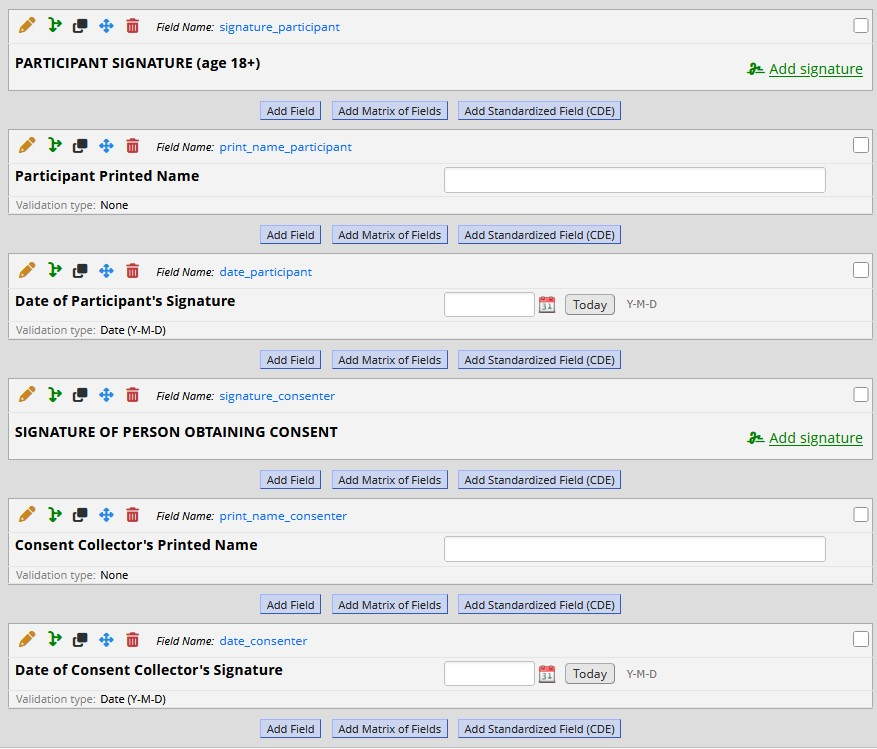
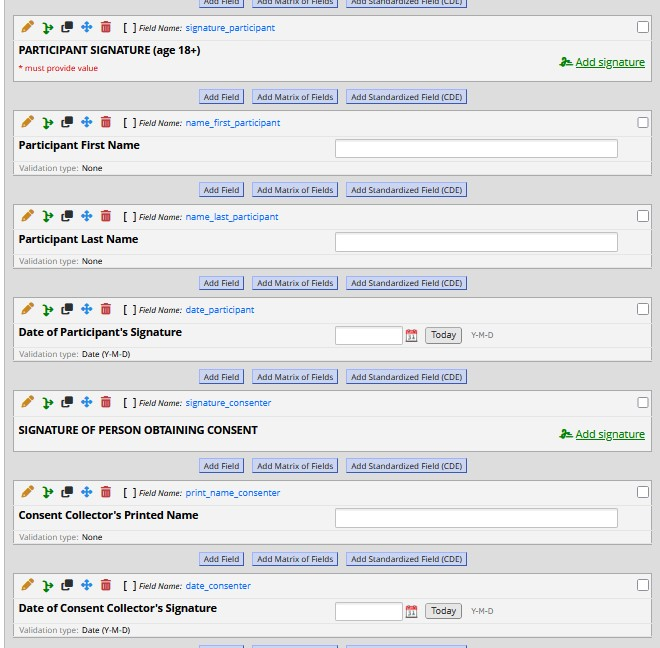
Built site for gh-pages

diff --git a/designadv/econsent.html b/designadv/econsent.html
@@ -637,12 +637,17 @@ gtag('config', 'G-H3G33LRV8Y', { 'anonymize_ip': true});
   <li><a href="#consent-form" id="toc-consent-form" class="nav-link" data-scroll-target="#consent-form"><span class="header-section-number">10.5.1</span> Consent Form</a></li>
   <li><a href="#hipaa-form" id="toc-hipaa-form" class="nav-link" data-scroll-target="#hipaa-form"><span class="header-section-number">10.5.2</span> HIPAA Form</a></li>
   </ul></li>
-  <li><a href="#configuring-settings" id="toc-configuring-settings" class="nav-link" data-scroll-target="#configuring-settings"><span class="header-section-number">10.6</span> Configuring Settings</a>
+  <li><a href="#enabling-surveys" id="toc-enabling-surveys" class="nav-link" data-scroll-target="#enabling-surveys"><span class="header-section-number">10.6</span> Enabling Surveys</a>
   <ul class="collapse">
-  <li><a href="#primary-settings" id="toc-primary-settings" class="nav-link" data-scroll-target="#primary-settings"><span class="header-section-number">10.6.1</span> Primary Settings</a></li>
-  <li><a href="#additional-settings" id="toc-additional-settings" class="nav-link" data-scroll-target="#additional-settings"><span class="header-section-number">10.6.2</span> Additional Settings</a></li>
+  <li><a href="#tell-redcap-to-allow-surveys" id="toc-tell-redcap-to-allow-surveys" class="nav-link" data-scroll-target="#tell-redcap-to-allow-surveys"><span class="header-section-number">10.6.1</span> Tell REDCap to Allow Surveys</a></li>
   </ul></li>
-  <li><a href="#updating-consent-forms" id="toc-updating-consent-forms" class="nav-link" data-scroll-target="#updating-consent-forms"><span class="header-section-number">10.7</span> Updating Consent Forms</a></li>
+  <li><a href="#enable-e-consent-framework" id="toc-enable-e-consent-framework" class="nav-link" data-scroll-target="#enable-e-consent-framework"><span class="header-section-number">10.7</span> Enable e-Consent Framework</a></li>
+  <li><a href="#configuring-settings" id="toc-configuring-settings" class="nav-link" data-scroll-target="#configuring-settings"><span class="header-section-number">10.8</span> Configuring Settings</a>
+  <ul class="collapse">
+  <li><a href="#primary-settings" id="toc-primary-settings" class="nav-link" data-scroll-target="#primary-settings"><span class="header-section-number">10.8.1</span> Primary Settings</a></li>
+  <li><a href="#additional-settings" id="toc-additional-settings" class="nav-link" data-scroll-target="#additional-settings"><span class="header-section-number">10.8.2</span> Additional Settings</a></li>
+  </ul></li>
+  <li><a href="#updating-consent-forms" id="toc-updating-consent-forms" class="nav-link" data-scroll-target="#updating-consent-forms"><span class="header-section-number">10.9</span> Updating Consent Forms</a></li>
   </ul>
 <div class="toc-actions"><ul><li><a href="https://github.com/OuhscBbmc/redcap-manual-v1/edit/main/designadv/econsent.md" class="toc-action"><i class="bi bi-github"></i>Edit this page</a></li><li><a href="https://github.com/OuhscBbmc/redcap-manual-v1/issues/new" class="toc-action"><i class="bi empty"></i>Report an issue</a></li><li><a href="https://github.com/OuhscBbmc/redcap-manual-v1/blob/main/designadv/econsent.md" class="toc-action"><i class="bi empty"></i>View source</a></li></ul></div></nav>
     </div>
@@ -776,31 +781,38 @@ gtag('config', 'G-H3G33LRV8Y', { 'anonymize_ip': true});
 </ol>
 <ul>
 <li>A signature field for the participant’s signature</li>
-<li>A text variable for participant’s printed name</li>
+<li>A text variable for the participant’s first name</li>
+<li>A text variable for the participant’s last name – separate name fields are required, even if they do not appear that way on the pdf form</li>
 <li>A date variable for the date of signature</li>
 <li>A signature field for the person obtaining consent</li>
 <li>A text variable for the printed name of the person obtaining consent</li>
 <li>A date variable for the consent obtainer’s date of signature. Other consent forms also may have fields for a witness to sign and for a child to sign indicating his or her assent. (Children cannot sign a legal form granting consent; the parent or guardian must grant consent. But obtaining assent from a child old enough to understand that s/he will be participating in a study is the ethical choice.)</li>
 </ul>
 <ol type="1">
-<li><p>Create the needed consent fields listed above.</p>
+<li><p>Create the needed consent fields listed above. Make sure the participant’s signature is <strong>required</strong> by clicking that button when creating the field.</p>
 <div class="quarto-figure quarto-figure-center">
 <figure class="figure">
-<p><a href="images/econsent/consent-fields.jpg" class="lightbox" data-gallery="quarto-lightbox-gallery-6" title="Consent Fields in REDCap"><img src="images/econsent/consent-fields.jpg" class="img-fluid figure-img" style="width:80.0%" alt="Consent Fields in REDCap"></a></p>
+<p><a href="images/econsent/signature-required.jpg" class="lightbox" data-gallery="quarto-lightbox-gallery-6" title="Signature is required"><img src="images/econsent/signature-required.jpg" class="img-fluid figure-img" style="width:80.0%" alt="Signature is required"></a></p>
+<figcaption>Signature is required</figcaption>
+</figure>
+</div>
+<div class="quarto-figure quarto-figure-center">
+<figure class="figure">
+<p><a href="images/econsent/consent-fields.jpg" class="lightbox" data-gallery="quarto-lightbox-gallery-7" title="Consent Fields in REDCap"><img src="images/econsent/consent-fields.jpg" class="img-fluid figure-img" style="width:80.0%" alt="Consent Fields in REDCap"></a></p>
 <figcaption>Consent Fields in REDCap</figcaption>
 </figure>
 </div></li>
 <li><p>The project now has the parts of the consent form that need to be filled out. But our REDCap project needs to provide the potential participant with the pdf of the consent form. Create a new <em>Descriptive Text</em> variable at the top of the Consent instrument (after Record ID) by clicking the <em>Add Field</em> button, shown below.</p>
 <div class="quarto-figure quarto-figure-center">
 <figure class="figure">
-<p><a href="images/econsent/add-field.jpg" class="lightbox" data-gallery="quarto-lightbox-gallery-7" title="Add a Descriptive Text field"><img src="images/econsent/add-field.jpg" class="img-fluid figure-img" style="width:80.0%" alt="Add a Descriptive Text field"></a></p>
+<p><a href="images/econsent/add-field.jpg" class="lightbox" data-gallery="quarto-lightbox-gallery-8" title="Add a Descriptive Text field"><img src="images/econsent/add-field.jpg" class="img-fluid figure-img" style="width:80.0%" alt="Add a Descriptive Text field"></a></p>
 <figcaption>Add a Descriptive Text field</figcaption>
 </figure>
 </div></li>
 <li><p>You won’t put anything in the box called <em>Field Label.</em> Name this variable <em>consent</em>, then click the link <em>Upload file</em> just below the sentence <em>Attach an image, file, or embedded audio</em></p>
 <div class="quarto-figure quarto-figure-center">
 <figure class="figure">
-<p><a href="images/econsent/attach-file.jpg" class="lightbox" data-gallery="quarto-lightbox-gallery-8" title="Attach a file"><img src="images/econsent/attach-file.jpg" class="img-fluid figure-img" style="width:80.0%" alt="Attach a file"></a></p>
+<p><a href="images/econsent/attach-file.jpg" class="lightbox" data-gallery="quarto-lightbox-gallery-9" title="Attach a file"><img src="images/econsent/attach-file.jpg" class="img-fluid figure-img" style="width:80.0%" alt="Attach a file"></a></p>
 <figcaption>Attach a file</figcaption>
 </figure>
 </div></li>
@@ -808,73 +820,145 @@ gtag('config', 'G-H3G33LRV8Y', { 'anonymize_ip': true});
 <p>After you upload the pdf of the consent form, you will need to select <em>Inline image/PDF,</em> as shown below.</p>
 <div class="quarto-figure quarto-figure-center">
 <figure class="figure">
-<p><a href="images/econsent/inline-image-pdf.jpg" class="lightbox" data-gallery="quarto-lightbox-gallery-9" title="Select Inline Image/PDF"><img src="images/econsent/inline-image-pdf.jpg" class="img-fluid figure-img" style="width:80.0%" alt="Select Inline Image/PDF"></a></p>
+<p><a href="images/econsent/inline-image-pdf.jpg" class="lightbox" data-gallery="quarto-lightbox-gallery-10" title="Select Inline Image/PDF"><img src="images/econsent/inline-image-pdf.jpg" class="img-fluid figure-img" style="width:80.0%" alt="Select Inline Image/PDF"></a></p>
 <figcaption>Select Inline Image/PDF</figcaption>
 </figure>
 </div>
 </section>
 <section id="hipaa-form" class="level3" data-number="10.5.2">
 <h3 data-number="10.5.2" class="anchored" data-anchor-id="hipaa-form"><span class="header-section-number">10.5.2</span> HIPAA Form</h3>
-<p>Now do the same thing for the HIPAA form: - Identify all elements that would be filled in with a pen on a printed HIPAA form - Go into the HIPAA instrument and create those fields - Be sure to include the Descriptive Field called hipaa for uploading the pdf of the HIPAA form</p>
-<ol type="1">
-<li><p>Enable the e-Consent Framework for a Survey</p>
+<p>Now do the same thing for the HIPAA form:</p>
+<ul>
+<li>Identify all elements that would be filled out on a printed HIPAA form</li>
+<li>Go into the HIPAA instrument on REDCap and create those fields</li>
+<li>Be sure to include the Descriptive Field called hipaa and upload the HIPAA pdf, setting it to appear inline</li>
+</ul>
+</section>
+</section>
+<section id="enabling-surveys" class="level2" data-number="10.6">
+<h2 data-number="10.6" class="anchored" data-anchor-id="enabling-surveys"><span class="header-section-number">10.6</span> Enabling Surveys</h2>
+<p>Before the consent form can be designated as such in the e-consent framework (that is, the REDCap module for electronic consent), we must specify that the forms are on a survey.</p>
+<section id="tell-redcap-to-allow-surveys" class="level3" data-number="10.6.1">
+<h3 data-number="10.6.1" class="anchored" data-anchor-id="tell-redcap-to-allow-surveys"><span class="header-section-number">10.6.1</span> Tell REDCap to Allow Surveys</h3>
+<p>On the Project Setup tab, click the <em>Enable</em> button next to the words “Use surveys in this project.”</p>
 <div class="quarto-figure quarto-figure-center">
 <figure class="figure">
-<p><a href="images/econsent/enable-1.jpg" class="lightbox" data-gallery="quarto-lightbox-gallery-10" title="Enable e-Consent"><img src="images/econsent/enable-1.jpg" class="img-fluid figure-img" style="width:80.0%" alt="Enable e-Consent"></a></p>
-<figcaption>Enable e-Consent</figcaption>
+<p><a href="images/econsent/enable-1.jpg" class="lightbox" data-gallery="quarto-lightbox-gallery-11" title="Enable surveys on the project"><img src="images/econsent/enable-1.jpg" class="img-fluid figure-img" style="width:80.0%" alt="Enable surveys on the project"></a></p>
+<figcaption>Enable surveys on the project</figcaption>
 </figure>
-</div></li>
+</div>
+<p>Return to Online Designer and click on the Enable button on the same line with the Consent form.</p>
+<div class="quarto-figure quarto-figure-center">
+<figure class="figure">
+<p><a href="images/econsent/enable-1.jpg" class="lightbox" data-gallery="quarto-lightbox-gallery-12" title="Enable Consent as a survey"><img src="images/econsent/enable-1.jpg" class="img-fluid figure-img" style="width:80.0%" alt="Enable Consent as a survey"></a></p>
+<figcaption>Enable Consent as a survey</figcaption>
+</figure>
+</div>
+<p>You will be taken to a new screen where you will specify how the survey will look and perform. We will illustrate only the most important details.</p>
+<div class="quarto-figure quarto-figure-center">
+<figure class="figure">
+<p><a href="images/econsent/enable-3.jpg" class="lightbox" data-gallery="quarto-lightbox-gallery-13" title="Editing survey details"><img src="images/econsent/enable-3.jpg" class="img-fluid figure-img" style="width:80.0%" alt="Editing survey details"></a></p>
+<figcaption>Editing survey details</figcaption>
+</figure>
+</div>
+<p>Scroll down to Survey Theme. The default theme is black, white, and light blue. A common choice for a theme at OU is Red Brick because the colors are similar to those of the university. The investigators running your study may have a preference.</p>
+<div class="quarto-figure quarto-figure-center">
+<figure class="figure">
+<p><a href="images/econsent/survey-theme.jpg" class="lightbox" data-gallery="quarto-lightbox-gallery-14" title="Setting survey theme"><img src="images/econsent/survey-theme.jpg" class="img-fluid figure-img" style="width:80.0%" alt="Setting survey theme"></a></p>
+<figcaption>Setting survey theme</figcaption>
+</figure>
+</div>
+<p>Scroll down to <em>Survey Termination Options.</em> Place a checkmark in the box <em>Auto-continue to the next survey.</em></p>
+<div class="quarto-figure quarto-figure-center">
+<figure class="figure">
+<p><a href="images/econsent/auto-continue.jpg" class="lightbox" data-gallery="quarto-lightbox-gallery-15" title="Choose auto-continue"><img src="images/econsent/auto-continue.jpg" class="img-fluid figure-img" style="width:80.0%" alt="Choose auto-continue"></a></p>
+<figcaption>Choose auto-continue</figcaption>
+</figure>
+</div>
+<p>Click the <em>Save Changes</em> button at the bottom of the page. You will be taken back to Online Designer. Now click the <em>Enable</em> button on the HIPAA line. Select the Survey Theme to match the one you used on the conent form, then click Save Changes.</p>
+</section>
+</section>
+<section id="enable-e-consent-framework" class="level2" data-number="10.7">
+<h2 data-number="10.7" class="anchored" data-anchor-id="enable-e-consent-framework"><span class="header-section-number">10.7</span> Enable e-Consent Framework</h2>
+<p>Finally we can enable the e-Consent Framework, the module that was designed to handle electronic consenting processes. In Online Designer we do that by clicking the <em>Enable</em> button under Survey Options, shown above the list of instruments.</p>
+<div class="quarto-figure quarto-figure-center">
+<figure class="figure">
+<p><a href="images/econsent/enable-4.jpg" class="lightbox" data-gallery="quarto-lightbox-gallery-16" title="Enable e-consent"><img src="images/econsent/enable-4.jpg" class="img-fluid figure-img" style="width:80.0%" alt="Enable e-consent"></a></p>
+<figcaption>Enable e-consent</figcaption>
+</figure>
+</div>
+<p>You will be taken to a page called <em>Settings for e-Consent &amp; PDF Snapshots.</em></p>
+<div class="quarto-figure quarto-figure-center">
+<figure class="figure">
+<p><a href="images/econsent/enable-5.jpg" class="lightbox" data-gallery="quarto-lightbox-gallery-17" title="E-consent settings"><img src="images/econsent/enable-5.jpg" class="img-fluid figure-img" style="width:80.0%" alt="E-consent settings"></a></p>
+<figcaption>E-consent settings</figcaption>
+</figure>
+</div>
+<p>Click the big green button that says <em>Enable the e-Consent Framework for a survey.</em> You will get a window that says <em>Enable e-Consent for a Survey.</em> You will select Consent from the drop-down menu.</p>
+<div class="quarto-figure quarto-figure-center">
+<figure class="figure">
+<p><a href="images/econsent/choose-consent.jpg" class="lightbox" data-gallery="quarto-lightbox-gallery-18" title="Select the consent form"><img src="images/econsent/choose-consent.jpg" class="img-fluid figure-img" style="width:80.0%" alt="Select the consent form"></a></p>
+<figcaption>Select the consent form</figcaption>
+</figure>
+</div>
+<p>Another window will open, called <em>Enable e-Consent.</em> The first two</p>
+<ol start="2" type="1">
 <li><p>Click on <strong>e-Consent and PDF Snapshots</strong> in the <em>Data Collection Instruments</em> header box</p>
 <div class="quarto-figure quarto-figure-center">
 <figure class="figure">
-<p><a href="images/econsent/enable-2.jpg" class="lightbox" data-gallery="quarto-lightbox-gallery-11" title="e-Consent and PDF Snapshots"><img src="images/econsent/enable-2.jpg" class="img-fluid figure-img" style="width:80.0%" alt="e-Consent and PDF Snapshots"></a></p>
+<p><a href="images/econsent/enable-2.jpg" class="lightbox" data-gallery="quarto-lightbox-gallery-19" title="e-Consent and PDF Snapshots"><img src="images/econsent/enable-2.jpg" class="img-fluid figure-img" style="width:80.0%" alt="e-Consent and PDF Snapshots"></a></p>
 <figcaption>e-Consent and PDF Snapshots</figcaption>
 </figure>
 </div>
 <div class="quarto-figure quarto-figure-center">
 <figure class="figure">
-<p><a href="images/econsent/instruments-1.jpg" class="lightbox" data-gallery="quarto-lightbox-gallery-12" title="Data Collection Instruments"><img src="images/econsent/instruments-1.jpg" class="img-fluid figure-img" style="width:80.0%" alt="Data Collection Instruments"></a></p>
+<p><a href="images/econsent/instruments-1.jpg" class="lightbox" data-gallery="quarto-lightbox-gallery-20" title="Data Collection Instruments"><img src="images/econsent/instruments-1.jpg" class="img-fluid figure-img" style="width:80.0%" alt="Data Collection Instruments"></a></p>
 <figcaption>Data Collection Instruments</figcaption>
 </figure>
 </div>
 <div class="quarto-figure quarto-figure-center">
 <figure class="figure">
-<p><a href="images/econsent/settings-1.jpg" class="lightbox" data-gallery="quarto-lightbox-gallery-13" title="e-Consent Settings"><img src="images/econsent/settings-1.jpg" class="img-fluid figure-img" style="width:80.0%" alt="e-Consent Settings"></a></p>
+<p><a href="images/econsent/settings-1.jpg" class="lightbox" data-gallery="quarto-lightbox-gallery-21" title="e-Consent Settings"><img src="images/econsent/settings-1.jpg" class="img-fluid figure-img" style="width:80.0%" alt="e-Consent Settings"></a></p>
 <figcaption>e-Consent Settings</figcaption>
 </figure>
 </div></li>
 </ol>
 </section>
-</section>
-<section id="configuring-settings" class="level2" data-number="10.6">
-<h2 data-number="10.6" class="anchored" data-anchor-id="configuring-settings"><span class="header-section-number">10.6</span> Configuring Settings</h2>
-<section id="primary-settings" class="level3" data-number="10.6.1">
-<h3 data-number="10.6.1" class="anchored" data-anchor-id="primary-settings"><span class="header-section-number">10.6.1</span> Primary Settings</h3>
+<section id="configuring-settings" class="level2" data-number="10.8">
+<h2 data-number="10.8" class="anchored" data-anchor-id="configuring-settings"><span class="header-section-number">10.8</span> Configuring Settings</h2>
+<section id="primary-settings" class="level3" data-number="10.8.1">
+<h3 data-number="10.8.1" class="anchored" data-anchor-id="primary-settings"><span class="header-section-number">10.8.1</span> Primary Settings</h3>
 <ul>
 <li>Allow user edits and specify name fields.</li>
 </ul>
 </section>
-<section id="additional-settings" class="level3" data-number="10.6.2">
-<h3 data-number="10.6.2" class="anchored" data-anchor-id="additional-settings"><span class="header-section-number">10.6.2</span> Additional Settings</h3>
+<section id="additional-settings" class="level3" data-number="10.8.2">
+<h3 data-number="10.8.2" class="anchored" data-anchor-id="additional-settings"><span class="header-section-number">10.8.2</span> Additional Settings</h3>
 <ul>
 <li><p>Add a <strong>Date of Birth</strong> field, custom headers/footers, and signature settings.</p></li>
 <li><p>Specify save locations and customize file names.</p>
 <div class="quarto-figure quarto-figure-center">
 <figure class="figure">
-<p><a href="images/econsent/settings-1.jpg" class="lightbox" data-gallery="quarto-lightbox-gallery-14" title="Settings"><img src="images/econsent/settings-1.jpg" class="img-fluid figure-img" style="width:80.0%" alt="Settings"></a></p>
+<p><a href="images/econsent/settings-1.jpg" class="lightbox" data-gallery="quarto-lightbox-gallery-22" title="Settings"><img src="images/econsent/settings-1.jpg" class="img-fluid figure-img" style="width:80.0%" alt="Settings"></a></p>
 <figcaption>Settings</figcaption>
 </figure>
 </div></li>
 </ul>
 </section>
 </section>
-<section id="updating-consent-forms" class="level2" data-number="10.7">
-<h2 data-number="10.7" class="anchored" data-anchor-id="updating-consent-forms"><span class="header-section-number">10.7</span> Updating Consent Forms</h2>
+<section id="updating-consent-forms" class="level2" data-number="10.9">
+<h2 data-number="10.9" class="anchored" data-anchor-id="updating-consent-forms"><span class="header-section-number">10.9</span> Updating Consent Forms</h2>
 <p>Studies with IRB oversight must check in periodically and inform the IRB about the study’s status. Among other tasks the researchers must obtain re-approval of their consent form. When you create an e-consent project, it is a good idea to put a note on your Outlook calendar reminding you to check with the researchers before their consent form expires. Then you will be better prepared to replace the consent and HIPAA forms with the latest versions, with the new expiration date given.</p>
 <ol type="1">
-<li>Click <strong>Add Consent Form</strong>.</li>
-<li>Specify the version number and upload the consent form.</li>
-<li>Save the new version.</li>
+<li>Notify the people who will be collecting the study’s informed consent that you will be working on the e-consent on REDCap and that they should pause using the e-consent until you inform them the new forms have been uploaded</li>
+<li>Go into Development Mode by such and such</li>
+<li>Go *** and *** then do such and such</li>
+<li>Click <strong>Add Consent Form</strong></li>
+<li>Specify the version number and upload the consent form</li>
+<li>Save the new version</li>
+<li>Ask for the project to be moved back into Production Mode</li>
+<li>After being notified that the project is in production, go to the survey and create a test record by completing the forms, using a name like <em>Testing REDCap</em></li>
+<li>If everything is working correctly, notify those collecting informed consent that the e-consent REDCap is back in production with the new forms, and they may see a test record in REDCap</li>
 </ol>
 <div class="callout callout-style-simple callout-note callout-titled">
 <div class="callout-header d-flex align-content-center">

diff --git a/index.html b/index.html
@@ -6,7 +6,7 @@
 
 <meta name="viewport" content="width=device-width, initial-scale=1.0, user-scalable=yes">
 
-<meta name="dcterms.date" content="2026-04-15">
+<meta name="dcterms.date" content="2026-04-16">
 
 <title>REDCap Manual for OU</title>
 <style>
@@ -90,10 +90,10 @@ gtag('config', 'G-H3G33LRV8Y', { 'anonymize_ip': true});
 <link rel="stylesheet" href="assets/font-awesome.css">
 <link rel="stylesheet" href="assets/tables.css">
 <meta name="citation_title" content="REDCap Manual for OU">
-<meta name="citation_publication_date" content="2026-04-15">
-<meta name="citation_cover_date" content="2026-04-15">
+<meta name="citation_publication_date" content="2026-04-16">
+<meta name="citation_cover_date" content="2026-04-16">
 <meta name="citation_year" content="2026">
-<meta name="citation_online_date" content="2026-04-15">
+<meta name="citation_online_date" content="2026-04-16">
 <meta name="citation_doi" content="10.5281/zenodo.14003228">
 <meta name="citation_language" content="en">
 <meta name="citation_reference" content="citation_title=The elements of statistical learning: Data mining, inference, and prediction;,citation_author=Trevor Hastie;,citation_author=Robert Tibshirani;,citation_author=Jerome H Friedman;,citation_author=Jerome H Friedman;,citation_publication_date=2009;,citation_cover_date=2009;,citation_year=2009;,citation_volume=2;">
@@ -650,7 +650,7 @@ gtag('config', 'G-H3G33LRV8Y', { 'anonymize_ip': true});
     <div>
     <div class="quarto-title-meta-heading">Published</div>
     <div class="quarto-title-meta-contents">
-      <p class="date">April 15, 2026</p>
+      <p class="date">April 16, 2026</p>
     </div>
   </div>
   
